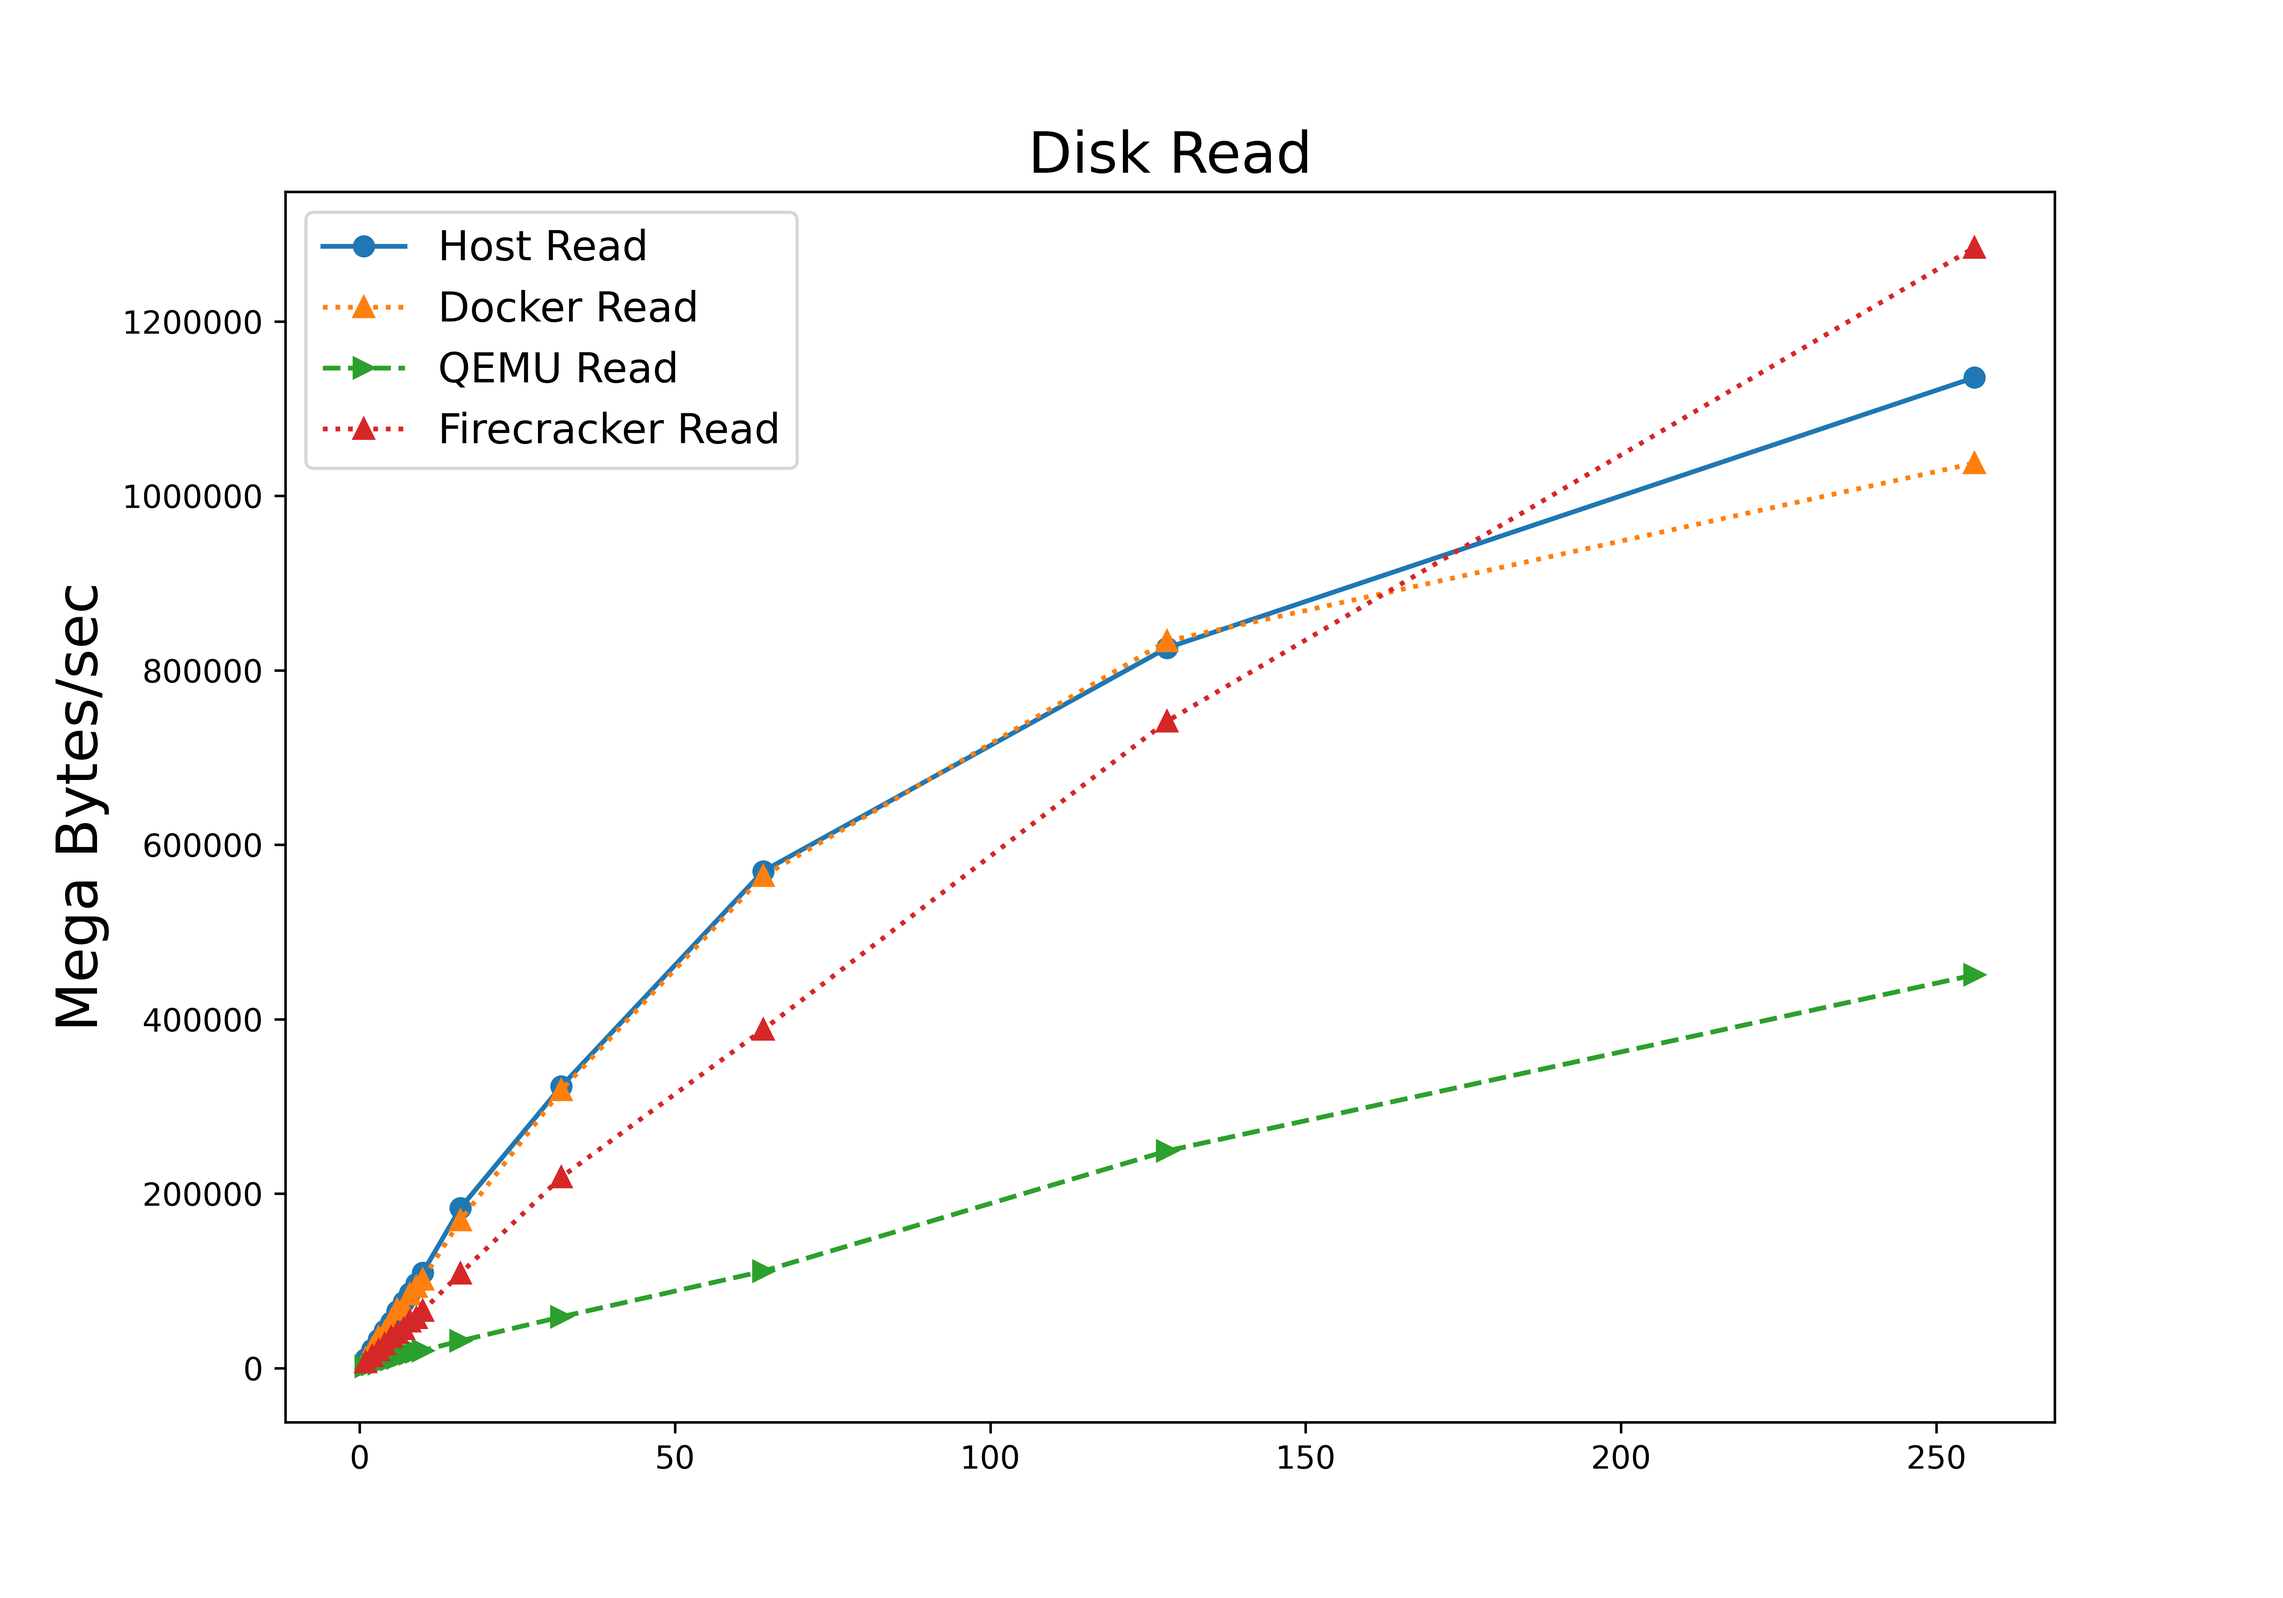
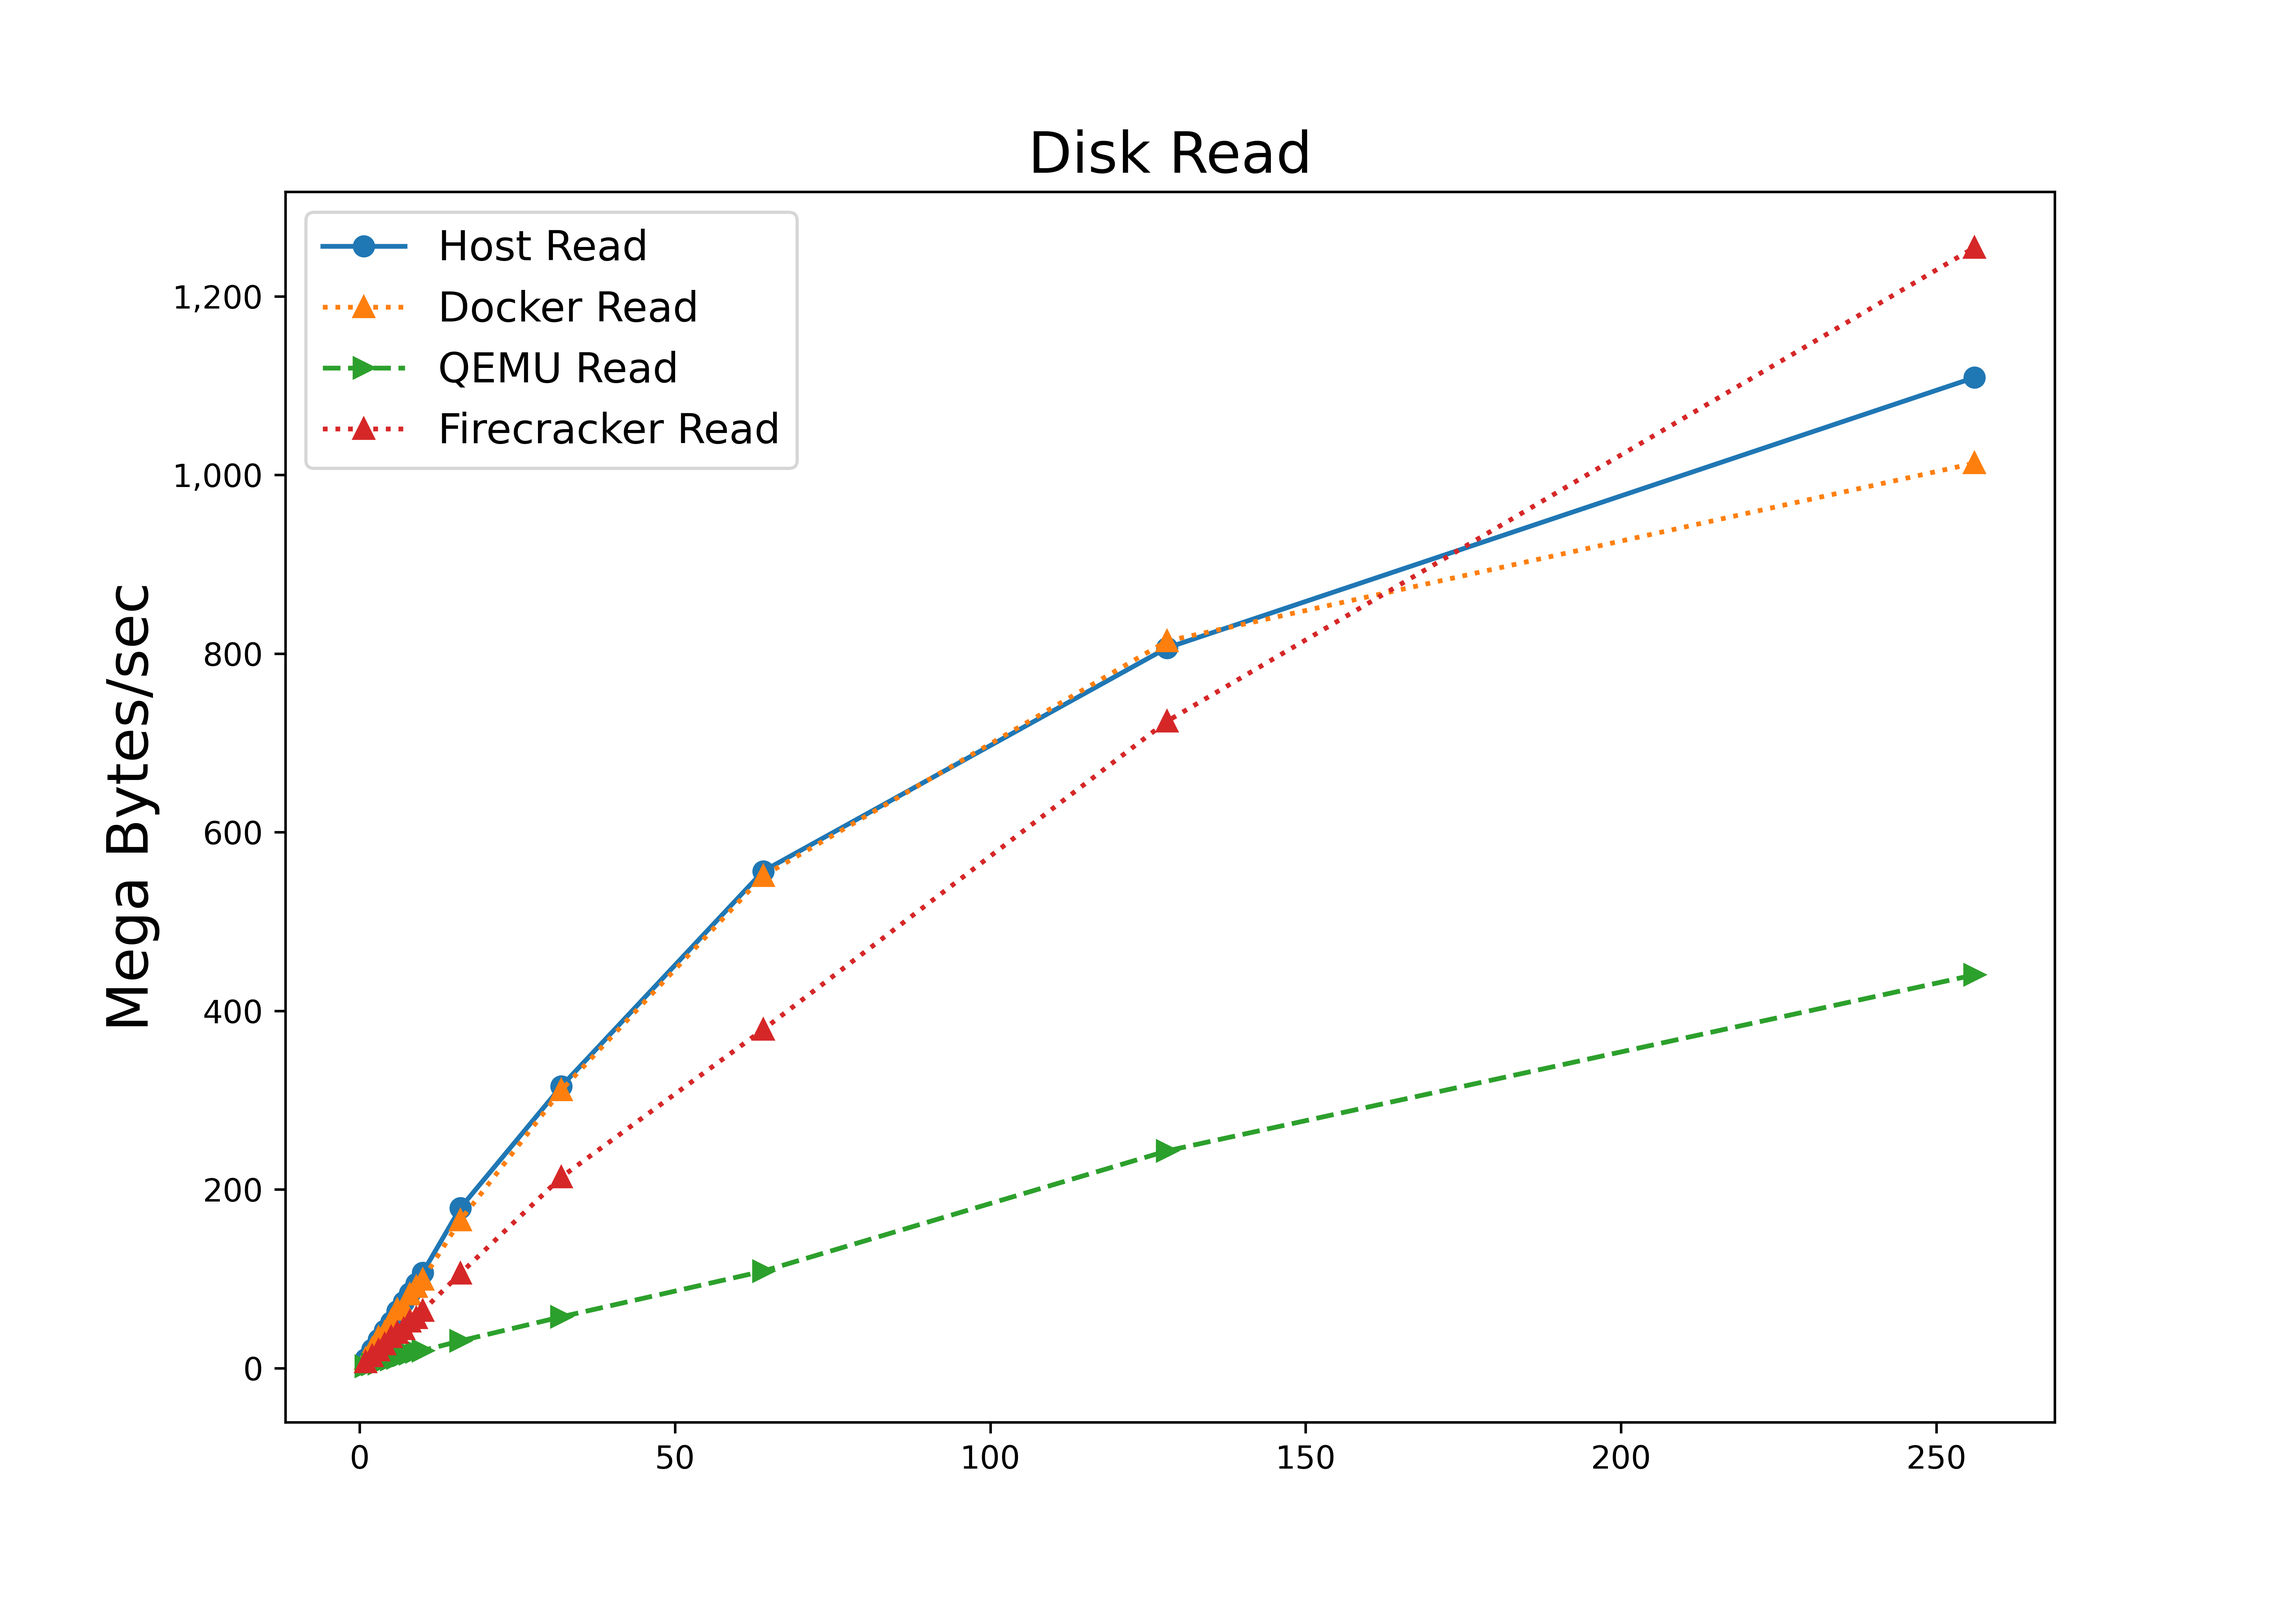
update yaxis format

diff --git a/CPU/cpu_test.py b/CPU/cpu_test.py
@@ -1,28 +1,34 @@
+import matplotlib.ticker as mlt
 import numpy as np
 import matplotlib.pyplot as plt
 
-qemu=[3043.47,2992.04,2960.03]
+qemu = [3043.47, 2992.04, 2960.03]
 
-fc=[3122.49,2978.14,3031.28]
+fc = [3122.49, 2978.14, 3031.28]
 
-docker=[3114.42,2892.88,2943.60]
+docker = [3114.42, 2892.88, 2943.60]
 
-host=[2905.05,3059.79,3051.47]
-
-
-
-qemu=np.array(qemu)
-fc=np.array(fc)
-docker=np.array(docker)
-host=np.array(host)
+host = [2905.05, 3059.79, 3051.47]
 
 
-lables=['Qemu','Firecracker','Docker','Host']
+qemu = np.array(qemu)
+fc = np.array(fc)
+docker = np.array(docker)
+host = np.array(host)
 
-plt.bar(lables,[qemu.mean(),fc.mean(),docker.mean(),host.mean()],width=0.5,color='#0089A7')
-plt.axhline(fc.mean(), ls='--', color='#AB3B3A',linewidth=1.8) #shinsyu
 
-plt.title('CPU Performance',fontsize=15)
-plt.ylabel('Events per second',fontsize=15)
+lables = ['Qemu', 'Firecracker', 'Docker', 'Host']
+
+plt.bar(lables, [qemu.mean(), fc.mean(), docker.mean(),
+        host.mean()], width=0.5, color='#0089A7')
+plt.axhline(fc.mean(), ls='--', color='#AB3B3A', linewidth=1.8)  # shinsyu
+
+# 增加comma的支持
+plt.gca().yaxis.set_major_formatter(
+    mlt.FuncFormatter(lambda x, p: format(int(x), ',')))
+
+
+plt.title('CPU Performance', fontsize=15)
+plt.ylabel('Events per second', fontsize=15)
 plt.savefig('CPU')
 # plt.show()

diff --git a/IO_Network/IO_network.py b/IO_Network/IO_network.py
@@ -1,31 +1,31 @@
+#%%
 import numpy as np
 import matplotlib.pyplot as plt
+import matplotlib.ticker as mlt
 
-qemu_tp=[919,1120,840,765,1370,1310,1090,1060,608,1080,972,858]
+qemu_tp=409
 
-fc_tp=[8560,10100,9890,10800,10700,10600,10800,10800,10600,10800,10500,10700]
+fc_tp=980
 
-docker_tp=[66300,69300,67800,69600,68600,66000,67400,65300,64400,66900,67000,64700]
+docker_tp=2650
+docker_NAT_tp=2100
 
-host_tp=[71800,72300,73600,73900,74900,74900,74800,74600,74000,73300,75900,74800]
-
-
-
-qemu_tp=np.array(qemu_tp)
-fc_tp=np.array(fc_tp)
-docker_tp=np.array(docker_tp)
-host_tp=np.array(host_tp)
+host_tp=2640
 
 
-lables=['Qemu','Firecracker','Docker','Host']
+
+
+lables=['Qemu','Firecracker','Docker-host','Docker-NAT','Host']
 
 plt.figure(figsize=(7,5))
 
-plt.bar(lables,[qemu_tp.mean(),fc_tp.mean(),docker_tp.mean(),host_tp.mean()],color='#0089A7',width=0.5)
-
-plt.axhline(fc_tp.mean(), ls='--', color='#AB3B3A',linewidth=2.0)
+plt.bar(lables,[qemu_tp,fc_tp,docker_tp,docker_NAT_tp,host_tp],color='#0089A7',width=0.5)
+plt.gca().yaxis.set_major_formatter(
+    mlt.FuncFormatter(lambda x, p: format(int(x), ',')))
+plt.axhline(fc_tp, ls='--', color='#AB3B3A',linewidth=2.0)
 
 plt.title('Network Throughput',fontsize=15)
 
 plt.ylabel('Mega Bytes/second',fontsize=15)
 plt.savefig('NetworkThroughput')
+# %%

diff --git a/IO_Disk/IO_test.py b/IO_Disk/IO_test.py
@@ -1,6 +1,7 @@
 # %%
 import matplotlib.pyplot as plt
 import numpy as np
+import matplotlib.ticker as mlt
 # import os
 
 # %%
@@ -116,14 +117,16 @@ for tag in ['Write','Read','Random Write','Random Read']:
     i+=1
     plt.figure(figsize=(10,7))
 
-    plt.plot(host_data[0], host_data[i], '-o', label="Host %s"%tag)
-    plt.plot(docker_data[0], docker_data[i],':^',label="Docker %s"%tag)
-    plt.plot(qemu_data[0], qemu_data[i],'-->',label="QEMU %s"%tag)
-    plt.plot(fc_data[0], fc_data[i],':^',label="Firecracker %s"%tag)
+    plt.plot(host_data[0], host_data[i]/1024, '-o', label="Host %s"%tag)
+    plt.plot(docker_data[0], docker_data[i]/1024,':^',label="Docker %s"%tag)
+    plt.plot(qemu_data[0], qemu_data[i]/1024,'-->',label="QEMU %s"%tag)
+    plt.plot(fc_data[0], fc_data[i]/1024,':^',label="Firecracker %s"%tag)
     plt.legend(fontsize=13)
     plt.ylabel('Mega Bytes/sec',fontsize=18)
     plt.title('Disk '+tag,fontsize=18)
     plt.ticklabel_format(style='plain')
+    plt.gca().yaxis.set_major_formatter(
+    mlt.FuncFormatter(lambda x, p: format(int(x), ',')))
     plt.savefig(tag, dpi=600)
     # plt.show()
     # plt.clf()

diff --git a/Memory/memory_test.py b/Memory/memory_test.py
@@ -1,5 +1,6 @@
 import matplotlib.pyplot as plt
 import numpy as np
+import matplotlib.ticker as mlt
 
 
 labels = ['Qemu', 'Firecracker', 'Docker', 'Host']
@@ -25,6 +26,8 @@ rects1 = ax.bar(x - width/2, rnd, width, label='Random Access',hatch='/',color='
 plt.axhline(fc_rd.mean(), ls='--', color='#AB3B3A',linewidth=1.3) #shinsyu
 rects2 = ax.bar(x + width/2, seq, width, label='Sequential Access',color='#0089A7') # shinbashi
 plt.axhline(fc_sq.mean(), ls='--', color='#AB3B3A',linewidth=1.3)
+plt.gca().yaxis.set_major_formatter(
+    mlt.FuncFormatter(lambda x, p: format(int(x), ',')))
 
 # Add some text for labels, title and custom x-axis tick labels, etc.
 ax.set_ylabel('Mega Bytes/sec')
